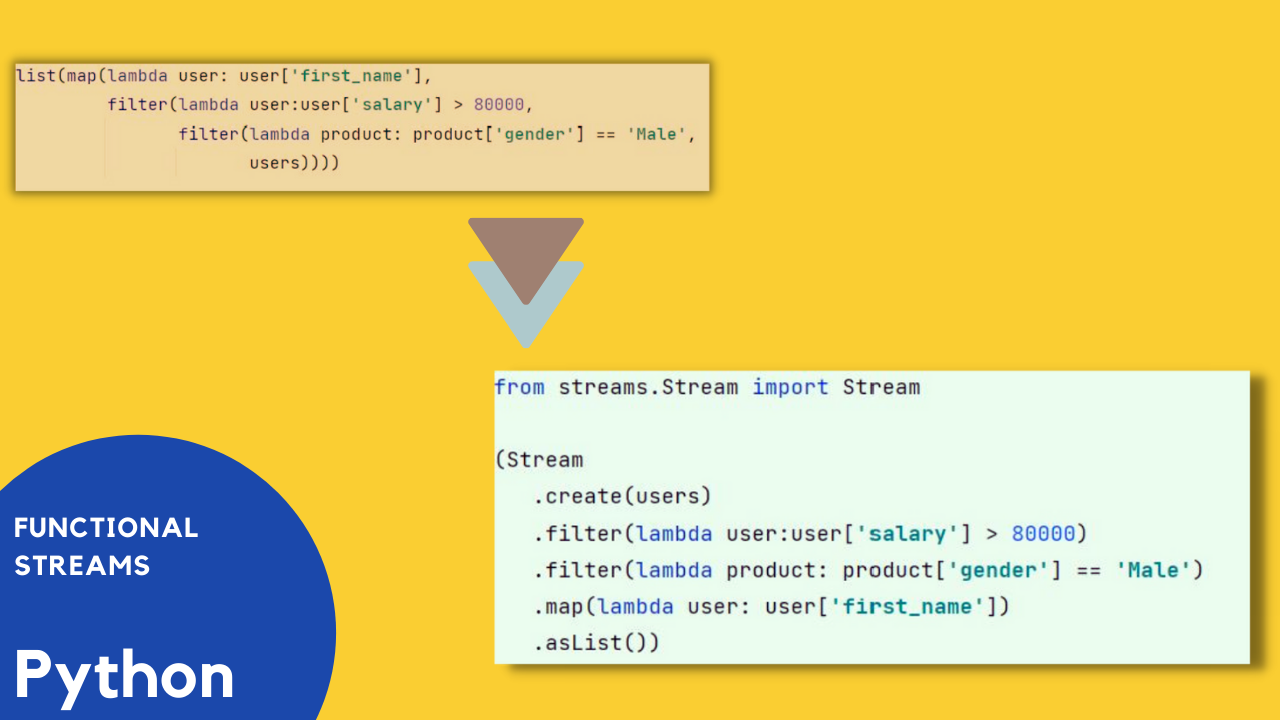
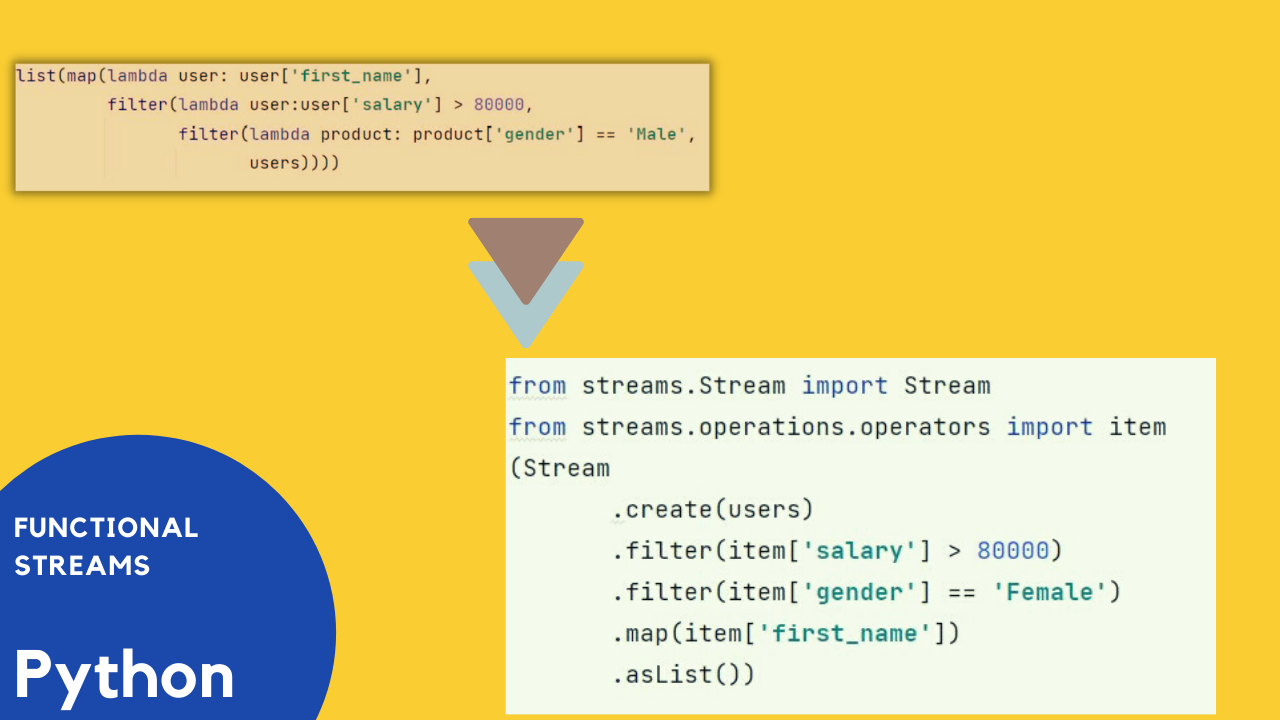
updated assets

Changed region(s): [[0.375, 0.4889, 1.0, 1.0]]

diff --git a/tests/test_stream_readme.py b/tests/test_stream_readme.py
@@ -7,8 +7,6 @@ from shared.users import get_users
 import cProfile
 import pstats
 
-from streams.Stream import Stream
-from streams.operations.operators import item
 
 
 def profile_method(fn):
@@ -51,6 +49,16 @@ users = [
 ]
 
 
+from streams.Stream import Stream
+from streams.operations.operators import item
+(Stream
+       .create(users)
+       .filter(item['salary'] > 80000)
+       .filter(item['gender'] == 'Female')
+       .map(item['first_name'])
+       .asList())
+
+
 class TestStreamReadMe(BaseUnitTest):
     def test_example_lambda(self):
         results = list(map(lambda user: user['first_name'], filter(lambda user: user['salary'] > 100000, users)
@@ -86,6 +94,7 @@ class TestStreamReadMe(BaseUnitTest):
                    .filter(item['gender'] == 'Female')
                    .map(item['first_name'])
                    .asList())
+
         # ['Mandy', 'Janessa']
         print(results)
         self.assertEqual(results, ['Mandy', 'Janessa'])

diff --git a/README.md b/README.md
@@ -241,5 +241,5 @@ skip_five_and_take_three_items_within_700_to_800 = (Stream
 
 
 # Built for Performance 
-        This is just a syntactic sugar, with no other third party software involved.
+This is just a syntactic sugar, with no other third party software involved.
 Everything has been written with built-in modules, Because of very hard fights with <a href="https://github.com/yawpitch/">yawpitch</a>. I started taking it seriously, Thanks for his valuable suggestions.
